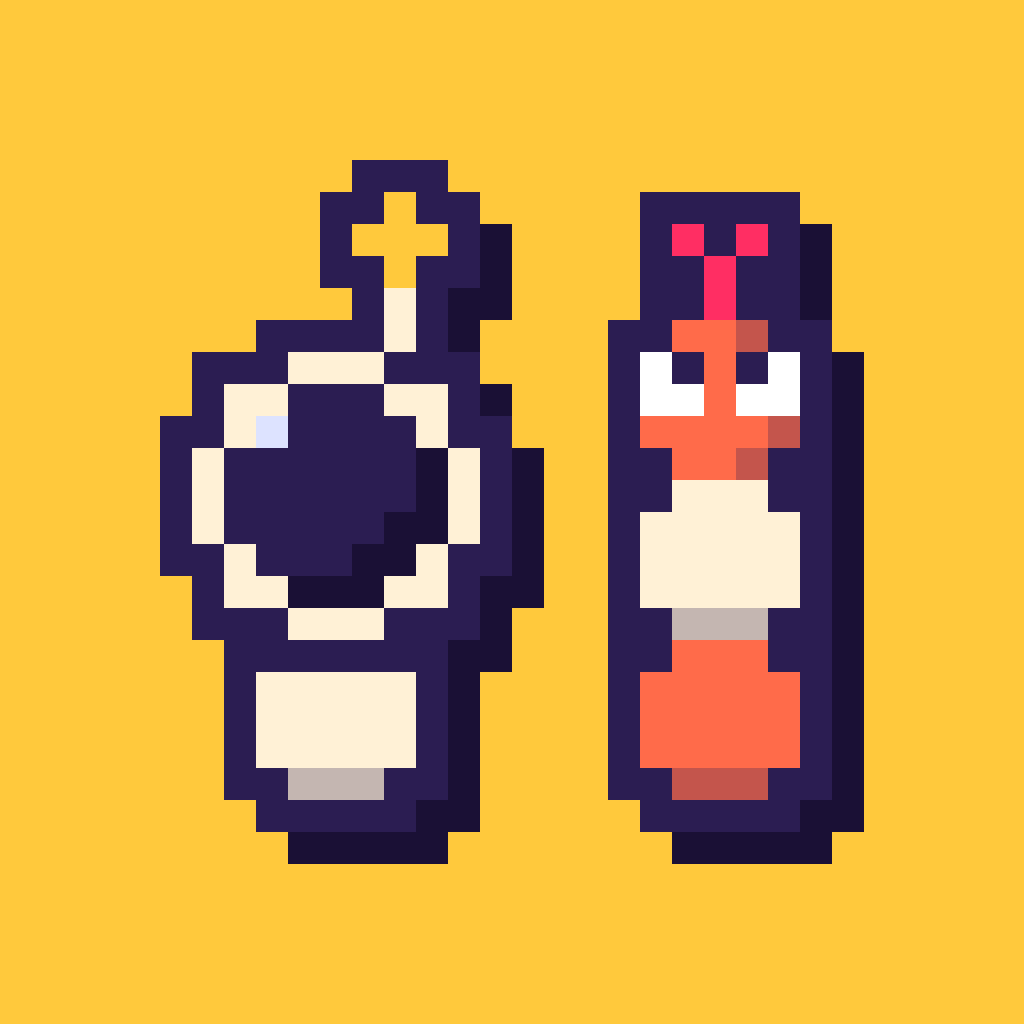
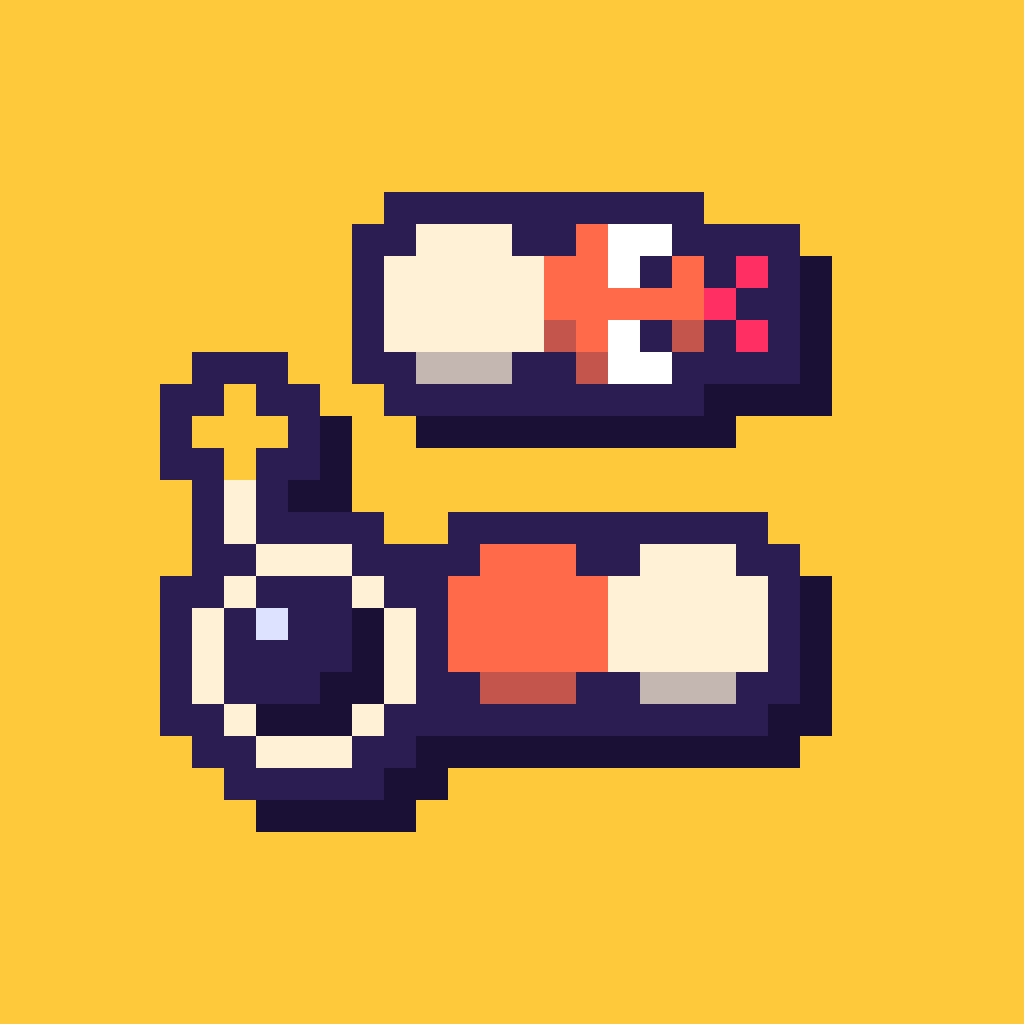
Redraw the shed achievement image as a U on its side
The shed image is one snake with a break in it, laid out as a U on its side. The script gains two keyword-only options, fuse_left on bomb() and short_tongue on snake_head(), that default to the old drawing, so the other eleven images keep their bytes. This squashes 920ea2e and 94b43fd, the second of which replaces the first.

diff --git a/tools/game-center/make_images.py b/tools/game-center/make_images.py
@@ -211,13 +211,14 @@ def spark(layer: Layer, p: Palette, x: int, y: int) -> None:
     layer.pattern(x, y, [".#.", "###", ".#."], p.gold)
 
 
-def bomb(layer: Layer, p: Palette, x: int, y: int, d: int, fuse: bool = True) -> None:
-    """The bomb food: a cream ring, an ink ball with its shade and shine, a cream fuse and a gold spark above."""
+def bomb(layer: Layer, p: Palette, x: int, y: int, d: int, fuse: bool = True, *, fuse_left: bool = False) -> None:
+    """The bomb food: a cream ring, an ink ball with its shade and shine, a cream fuse and a gold spark above. The fuse
+    is right of the middle, or near the left edge with `fuse_left`."""
     layer.disc(x, y, d, p.cream)
     layer.disc(x + 1, y + 1, d - 2, p.ink, p.shadow)
     layer.rect(x + 2, y + 2, 2 if d >= 10 else 1, 2 if d >= 10 else 1, p.shine)
     if fuse:
-        fx = x + (d * 2) // 3
+        fx = x + 1 if fuse_left else x + (d * 2) // 3
         layer.rect(fx, y - 2, 1, 2, p.cream)
         spark(layer, p, fx - 1, y - 5)
 
@@ -261,11 +262,13 @@ def padlock_open(picture: Picture, x: int, y: int) -> None:
     picture.part(body)
 
 
-def snake_head(layer: Layer, p: Palette, x: int, y: int, heading: str, k: int = 1, tongue: bool = True) -> None:
+def snake_head(
+    layer: Layer, p: Palette, x: int, y: int, heading: str, k: int = 1, tongue: bool = True, *, short_tongue: bool = False
+) -> None:
     """The head of the snake, a 5 by 5 square of `k`-cell steps with its corners cut, facing `heading`.
 
     `x` and `y` are the top left of its box. The eyes are on the sides of the front half, as the board draws them, and
-    the forked tongue, 3 steps long, reaches out of the front."""
+    the forked tongue, 3 steps long (2 with `short_tongue`), reaches out of the front."""
     size = 5 * k
     template: dict[tuple[int, int], Colour] = {}
     for a in range(5):
@@ -287,12 +290,13 @@ def snake_head(layer: Layer, p: Palette, x: int, y: int, heading: str, k: int = 
             for j in range(k):
                 cells[(a * k + i, b * k + j)] = colour
     if tongue:
+        fork = 6 if short_tongue else 7
         for i in range(k):
             for j in range(k):
-                cells[(5 * k + i, 2 * k + j)] = p.pink
-                cells[(6 * k + i, 2 * k + j)] = p.pink
-                cells[(7 * k + i, 1 * k + j)] = p.pink
-                cells[(7 * k + i, 3 * k + j)] = p.pink
+                for step in range(5, fork):
+                    cells[(step * k + i, 2 * k + j)] = p.pink
+                cells[(fork * k + i, 1 * k + j)] = p.pink
+                cells[(fork * k + i, 3 * k + j)] = p.pink
     for (a, b), colour in cells.items():
         if heading == "right":
             u, v = a, b
@@ -476,18 +480,22 @@ def hotpotato(p: Palette) -> Picture:
 
 
 def shed(p: Palette) -> Picture:
-    """The live snake, head up, going away at the right; the dropped end, a bomb on a segment, left behind at the left.
-    The game just takes the dropped cells off the board, so the dropped end is drawn as it was, with nothing between."""
+    """One snake, a U on its side with the bend missing. Along the top the live snake goes to the right: a segment and
+    the head. Under it, three cells down, lies what was dropped, in the order the game drops it: the bomb, at the left
+    where the bend was, with its fuse rising in the corner, and then two segments of the tail."""
     picture = Picture(p)
 
     def live(layer: Layer) -> None:
-        snake_head(layer, p, 15, 4, "up")
-        segment(layer, p, 15, 9, 5, 1)
-        segment(layer, p, 15, 14, 5, 0)
+        segment(layer, p, 7, 0, 5, 1)
+        snake_head(layer, p, 12, 0, "right", short_tongue=True)
+
+    def tail(layer: Layer) -> None:
+        segment(layer, p, 9, 10, 5, 0)
+        segment(layer, p, 14, 10, 5, 1)
 
     picture.part(live)
-    picture.part(lambda layer: segment(layer, p, 3, 14, 5, 1))
-    picture.part(lambda layer: bomb(layer, p, 1, 5, 9))
+    picture.part(tail)
+    picture.part(lambda layer: bomb(layer, p, 1, 10, 7, fuse_left=True))
     return picture
 
 
